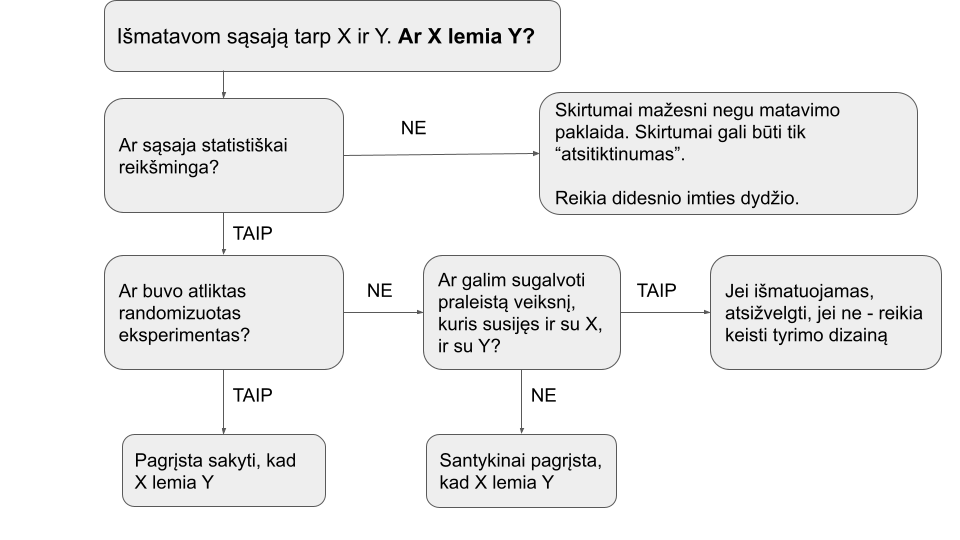
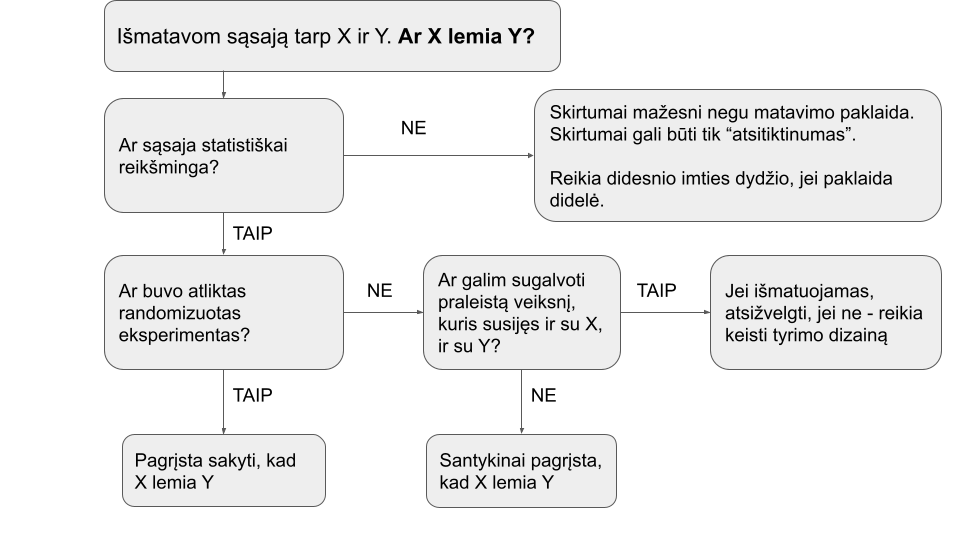
klaideles ir diagramos papildymas

Changed region(s): [[0.375, 0.1481, 0.9688, 0.4148]]

diff --git a/irasai/koreliacija-ir-priezastingumas/index.html b/irasai/koreliacija-ir-priezastingumas/index.html
@@ -90,9 +90,9 @@
 <p>Kaip minėjome, kontroliuojamus eksperimentus atlikti dažnai yra brangu ir ne visada etiška. Tačiau moksle siekti priežastinių teiginių vis tiek norime - nes tai gali padėti mums priimant sprendimus ar tiesiog geriau suprasti pasaulį.</p>
 <p>Jeigu negalime atlikti kontroliuojamo eksperimento, kartais galime pasinaudoti vadinamais „natūraliais eksperimentais“. „Natūralus eksperimentas“ įvyksta tada, kai dėl kažkokių išorinių (ir tam tikra prasme atsitiktinių) veiksnių gaunam skirtingas kintamojo, kurį tiriam, reikšmes.</p>
 <p>Kartais „natūralus eksperimentas“ įvyksta, nes iš tikrųjų vyksta loterija. Pavyzdžiui, valstybė atsitiktinai išrenka, kam teks eiti į armiją, o kam ne - tokiu atveju galima nustatyti „tarnavimo“ įtaką vėlesniems gyvenimo veiksniams.
-Kartais „loterija“ vyksta tik iš dalies, bet tai irgi gali padėti įvertinti tam tikrų veiksnių įtaką. Pavyzdžiui, jeigu valstybė atstiktinai skiria, pas kokį teisėją keliaus byla, ir vieni teisėjai yra griežtesni už kitus, galima bandyti nustatyti bausmės griežtumo įtaką veliasniam įsitvirtinimui visuomenėje.</p>
+Kartais „loterija“ vyksta tik iš dalies, bet tai irgi gali padėti įvertinti tam tikrų veiksnių įtaką. Pavyzdžiui, jeigu valstybė atstiktinai skiria, pas kokį teisėją keliaus byla, ir vieni teisėjai yra griežtesni už kitus, galima bandyti nustatyti bausmės griežtumo įtaką vėliasniam įsitvirtinimui visuomenėje.</p>
 <p>Jeigu tiesiog lygintume žmones, kurie gavo griežtas bausmes, su tais, kurie ne tokias griežtas, ir rastume, kad gavę griežtesnes bausmes po 10 metų sunkiau įsitvirtina visuomenėje - negalim daryti išvados, kad „griežtesnių bausmių skyrimas neigiamai veikia įsitvirtinimą visuomenėj“. Galbūt neigiamą įtaką įsitvirtinimui turėjo ne bausmė, bet gilesnės priežastys dėl ko žmogus gavo griežtesnę bausmę.
-Tačiau, jeigu lyginam, kaip sekasi įsitvirtinti patekusiems pas „griežtą teisėją“ ir „mažiau griežtą“, - kitų veiksnių, paaiškinančių koreliaciją, sugalvoti sunkiau, jeigu teisėjai priskirti atstitiktinai.</p>
+Tačiau, jeigu lyginam, kaip sekasi įsitvirtinti patekusiems pas „griežtą teisėją“ ir „mažiau griežtą“, - kitų veiksnių, paaiškinančių koreliaciją, sugalvoti sunkiau, jeigu teisėjai priskirti atsitiktinai.</p>
 <p>Atsitiktinis kintamasis („koks teisėjas buvo priskirtas“), kuris padeda įvertinti kito kintamojo įtaką (šiuo atveju, „bausmės griežtumo“), dar vadinamas „instrumentiniu kintamuoju“.</p>
 <p>Praktikoje, tyrėjas turi įtikinti, kad nėra kitų „natūralaus eksperimento“ ar „instrumentinio kintamojo“ paveiktų veiksnių, kurie gali paveikti rezultatą.
 Taip pat, dažna problema, kad „instrumentas“ silpnai koreliuoja su kintamuoju, kurio įtaką norim išmatuoti. Nors teoriškai „teisėjų griežtumas“ padeda įvertinti „bausmės griežtumo“ įtaką, bet jeigu „griežtumo“ skirtumai tarp teisėjų labai maži, bus sunku gauti reikšmingus rezultatus.</p>
@@ -132,7 +132,8 @@ Visais atvejais, išskyrus atliekant kontroliuojamą eksperimentą, tam, kad iš
 <li>Autoriai siūlo ekonomistams išmokti vertinti „konkuruojančius naratyvus“ naudojant panašius standartus kaip istorijos moksle.</li>
 </ul>
 <h3 id="pabaiga">Pabaiga</h3>
-<p><em>Mintys, kurias pateikiau, yra labiau iš statistiko perspektyvos. Jeigu blogą skaito kitų mokslo sričių atstovai, būtų įdomu išgirsti - ar rezonavo, kokie standardtai priežastingumo įrodymui taikomi pas jus?</em></p>
+<p><em>Mintys, kurias pateikiau, yra labiau iš statistiko perspektyvos. Jeigu blogą skaito kitų mokslo sričių atstovai, būtų įdomu išgirsti - ar rezonavo, kokie standartai priežastingumo įrodymui taikomi pas jus?</em></p>
+<p><em><a href="https://www.facebook.com/permalink.php?story_fbid=795127694434151&amp;id=329926624287596">Facebook įrašas</a>, jei norite palikti komentarą</em></p>
 </article>
 
         </main><footer id="footer">
